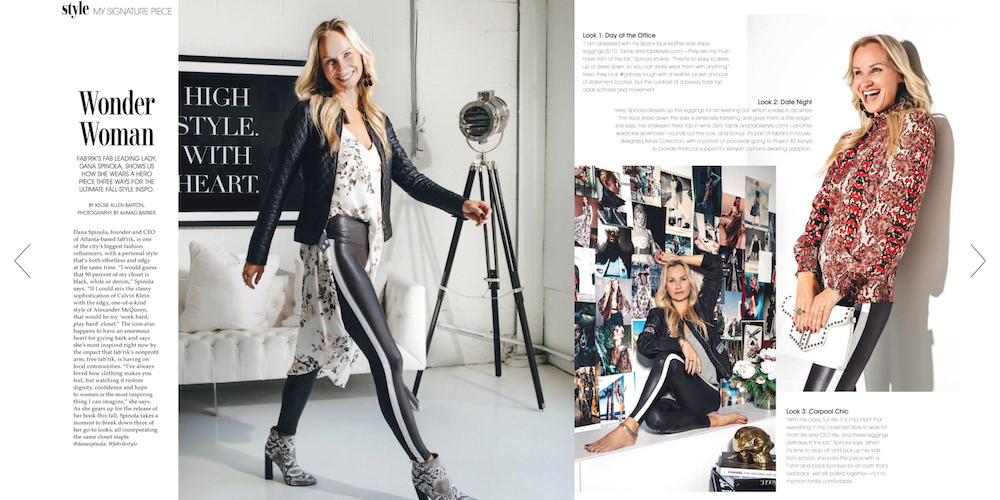
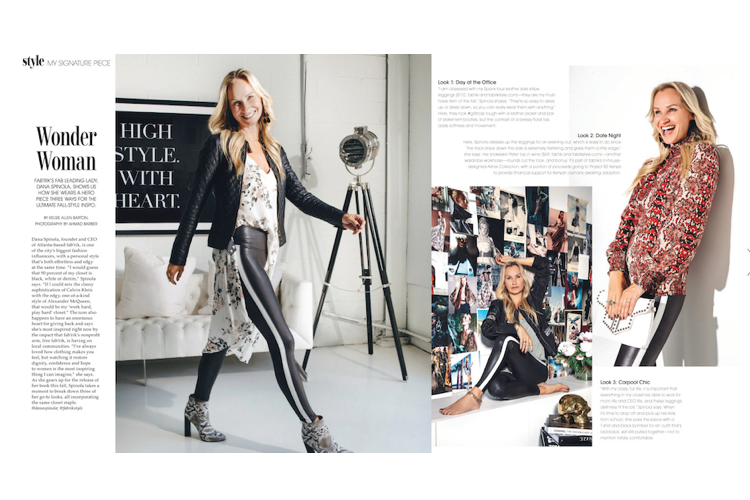
book page layout, added new press

diff --git a/app/assets/stylesheets/static_pages.scss b/app/assets/stylesheets/static_pages.scss
@@ -346,7 +346,8 @@ h2 {line-height: 1.35rem;}
   .event-li {display: inline-block; float: left; margin-bottom: 40px; border:$border;
     // width:45%; margin-left: 3.5%;
     width:48%; 
-    &:nth-child(2n+2){float:right;}
+    margin:0 1% 40px; min-height: 502px;
+    // &:nth-child(2n+2){float:right;}
 
     .article-img{border-bottom:$border;}
     .textbox {@include sec-default(); padding:20px;
@@ -359,7 +360,7 @@ h2 {line-height: 1.35rem;}
     // p.pub {margin-bottom: 0; font-size:15px; }
     p{font-size:15px; margin-bottom: 0;}
     p.text-link{color: $dgold; margin-top:10px;}
-    h4{margin-top: 5px; font-size:1.2rem;}
+    h4{margin-top: 5px; font-size:1.2rem; letter-spacing: .3px;}
   }
 }
 
@@ -485,11 +486,16 @@ h2 {line-height: 1.35rem;}
     
     .text {width:50%; position: relative; float: right; text-align: center;
       padding:70px 30px;
-      background-image: url(image_path('quote1.png')), url(image_path('quote2.png'));
-      background-size:60px, 60px; background-position: top left, bottom right;
-      background-repeat: no-repeat, no-repeat;
+      background-image: url(image_path('quote1.png')), url(image_path('quote2.png'));background-size:60px, 60px; background-position: top left, bottom right;background-repeat: no-repeat, no-repeat;
       margin-top:6%;margin-bottom: 3%;
     }
+  }
+
+  .book-header3 {@include sec-default(); position: relative; 
+    // min-height:451px;@include sec-bgimage('dbook3.jpg'); background-size:40%; background-position: bottom left;
+    .image{width:33%; float: left; margin-left: 6%}
+    .open {width:55%; margin-top:130px; float: left;}
+    p{font-size: 17px;}
   }
 
   .overview {@include sec-default(); padding:$pad; 
@@ -515,6 +521,12 @@ h2 {line-height: 1.35rem;}
     h2{text-transform: lowercase; margin:0;}
     .option, .option.o2 {width: 30%; float: none; margin: 0 20px;}
     .ds-link {background-color:$white; color:$black; font-weight: bold; @include tshadowl(rgba($black, .1));}
+  }
+
+  .btn-section{@include sec-default();
+    padding:40px 0 0; text-align: center;
+    .option{display: inline-block; float: none; width:35%;}
+    .ds-link {@include sec-default(); font-size: 17px; letter-spacing: 0;}
   }
 
   p.book-pkgs{display: inline-block; float: none; width:24%; font-size:18px; color: $white;
@@ -545,6 +557,11 @@ h2 {line-height: 1.35rem;}
         span{font-weight: bold;}
       }
     }
+  }
+
+  .rates {@include sec-default(); padding: 55px 0 30px; text-align:center;background-color: lighten($gold, 17%);
+    h3{font-size: 1.3rem; font-weight: $semi; text-transform: uppercase; letter-spacing: .3px}
+    a {font-weight: bold; text-transform: none;}
   }
 
   @include bp(tb) {
